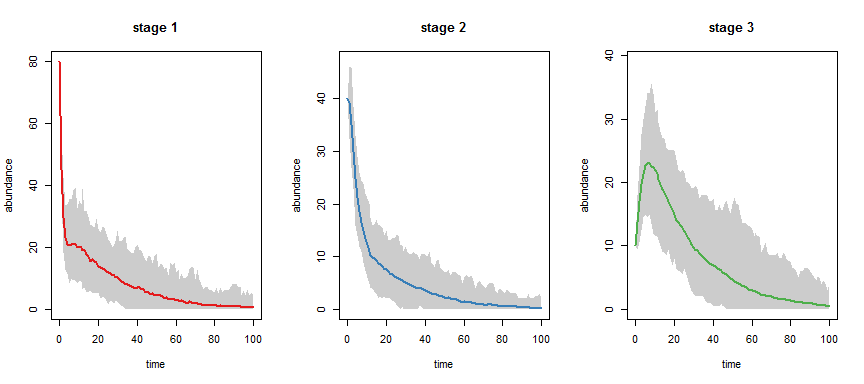
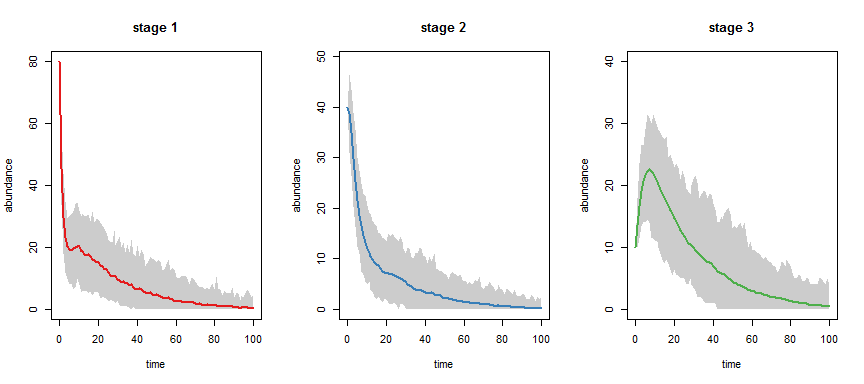
latest updates to dlmpr package.

diff --git a/readme.md b/readme.md
@@ -13,7 +13,7 @@ Because we are interested in matrix population models (or stage based models) we
 
 ``` r
 library(dlmpr)
-tmat <- as.transition(matrix(c(0.53,0.00,0.42,
+transition_matrix <- as.transition(matrix(c(0.53,0.00,0.42,
                                       0.10,0.77,0.00,
                                       0.00,0.12,0.90),nrow = 3,ncol = 3,byrow = TRUE))
 ```
@@ -21,7 +21,7 @@ tmat <- as.transition(matrix(c(0.53,0.00,0.42,
 We can now look at the standard matrix population metrics for this population.
 
 ``` r
-summary(tmat)
+summary(transition_matrix)
 ```
 
     ## $lambda
@@ -44,23 +44,20 @@ summary(tmat)
     ## stage.1 0.05350520 0.00000000 0.04352628
     ## stage.2 0.04352628 0.17533196 0.00000000
     ## stage.3 0.00000000 0.04352628 0.64058402
-    ## attr(,"class")
-    ## [1] "transition" "matrix"    
     ## 
     ## $name.mat
-    ## [1] "tmat"
+    ## [1] "structure(c(0.53, 0.1, 0, 0, 0.77, 0.12, 0.42, 0, 0.9), .Dim = c(3L, "          
+    ## [2] "3L), .Dimnames = list(c(\"stage.1\", \"stage.2\", \"stage.3\"), c(\"stage.1\", "
+    ## [3] "\"stage.2\", \"stage.3\")))"                                                    
     ## 
     ## $m.names
     ## [1] "stage.1" "stage.2" "stage.3"
-    ## 
-    ## attr(,"class")
-    ## [1] "summary.transition" "list"
 
 We can also plot the population dynamics based on our population matrix.
 
 ``` r
 par(mar=c(1,1,1,1))
-plot(tmat)
+plot(transition_matrix)
 ```
 
 ![](readme_files/figure-markdown_github/single_pop_plot-1.png)
@@ -68,9 +65,9 @@ plot(tmat)
 Having assessed the matrix population model for this population we can look at how a-spatial projection of this population will shift over time.
 
 ``` r
-tmat <- as.transition(matrix(c(.53,0,.42,0.1,0.77,0,0,0.12,0.9),nrow = 3,ncol = 3,byrow = TRUE))
-v0 <-   as.population(c(80,40,10))
-dm1 <- demographic(v0=v0,tmat=tmat,time=100,nrep=100)
+transition_matrix <- as.transition(matrix(c(.53,0,.42,0.1,0.77,0,0,0.12,0.9),nrow = 3,ncol = 3,byrow = TRUE))
+pop <-   as.population(c(80,40,10))
+dm1 <- demographic(pop=pop,tmat=transition_matrix,time=100,nrep=100)
 ```
 
 We can now look at how this single population changes through time.
@@ -97,10 +94,10 @@ plot(dm1,mean_pop = FALSE)
 Have assessed how the population changes over time, we can include stochasticity to our projections of population change through time. Here we include demographic uncertainty to each step in the stage based model by including `matsd` in to the demographic model run, we do this by adding a simple stochastic element by creating a the same sized matrix filled with he `runif` call values.
 
 ``` r
-tmat <- as.transition(matrix(c(.53,0,.42,0.1,0.77,0,0,0.12,0.9),nrow = 3,ncol = 3,byrow = TRUE))
-matsd <- matrix(runif(dim(tmat)[1]*dim(tmat)[1]), dim(tmat)[1],dim(tmat)[2])
-v0 <- as.population(c(80,40,10))
-dm2 <- demographic(v0=v0,tmat=tmat,matsd = matsd, estdem = TRUE,time=100,nrep=100)
+transition_matrix <- as.transition(matrix(c(.53,0,.42,0.1,0.77,0,0,0.12,0.9),nrow = 3,ncol = 3,byrow = TRUE))
+matsd <- matrix(runif(dim(transition_matrix$stage_matrix)[1]*dim(transition_matrix$stage_matrix)[1]), dim(transition_matrix$stage_matrix)[1],dim(transition_matrix$stage_matrix)[2])
+pop <- as.population(c(80,40,10))
+dm2 <- demographic(pop=pop,tmat=transition_matrix,matsd = matsd, estdem = TRUE,time=100,nrep=100)
 ```
 
 We can now look at how this single population changes over time with demographic uncertainty.
